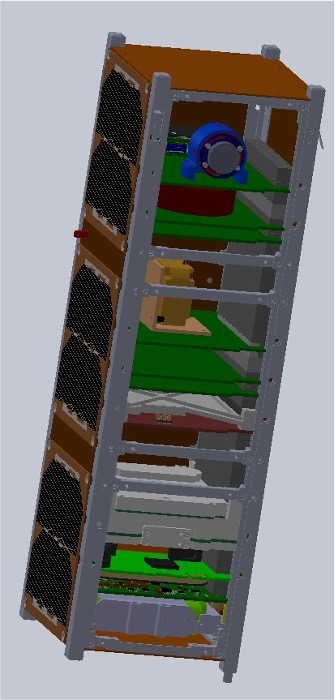
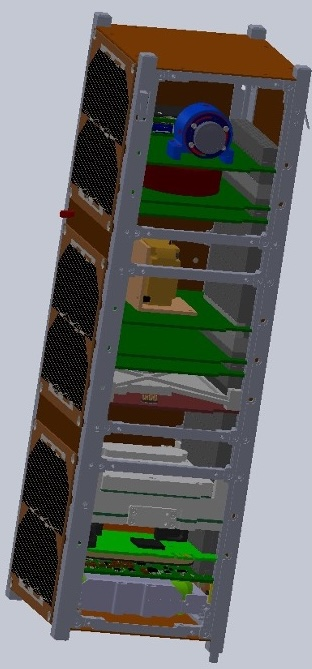
kl

diff --git a/projects/CS3.md b/projects/CS3.md
@@ -49,7 +49,7 @@ period: CentraleSupelec Space Center for CubeSats
     gap:0.75rem;
     font-weight:700;
     font-size:1.5rem;
-    background:#C4C8D1;
+    background:#f8f9fa;
     border:1px solid rgba(0,0,0,.08);
     border-radius:12px;
     padding:.5rem .75rem;
@@ -63,7 +63,7 @@ period: CentraleSupelec Space Center for CubeSats
     gap:0.75rem;
     font-weight:700;
     font-size:1.15rem;
-    background:#C4C8D1;
+    background:#f8f9fa;
     border:1px solid rgba(0,0,0,.08);
     border-radius:12px;
     padding:.5rem .75rem;
@@ -79,6 +79,12 @@ period: CentraleSupelec Space Center for CubeSats
   }
   details[open] .gc-toggle-arrow{
     transform:rotate(90deg);
+  }
+  .gc-frame-clear{
+    background-color: transparent !important;
+    border: 0;
+    box-shadow: none;
+    padding: 0;
   }
 
   /* Controlled sizes */
@@ -122,7 +128,7 @@ Along with one other student, we formed the Structure & Thermal team. I was prim
 <div class="row g-3 justify-content-center">
   <div class="col-md-6">
     <figure class="gc-figure">
-      <div class="gc-frame gc-h-md d-flex align-items-center">
+      <div class="gc-frame gc-frame-clear gc-h-md d-flex align-items-center">
         <img src="{{ '/img/CS3/ESUS_STM1.png' | relative_url }}" alt="ESUS STM — open configuration"
              class="gc-media" loading="lazy" decoding="async">
       </div>
@@ -132,7 +138,7 @@ Along with one other student, we formed the Structure & Thermal team. I was prim
 
   <div class="col-md-6">
     <figure class="gc-figure">
-      <div class="gc-frame gc-h-md d-flex align-items-center">
+      <div class="gc-frame gc-frame-clear gc-h-md d-flex align-items-center">
         <img src="{{ '/img/CS3/ESUS_STM2.png' | relative_url }}" alt="ESUS STM — closed configuration"
              class="gc-media" loading="lazy" decoding="async">
       </div>
